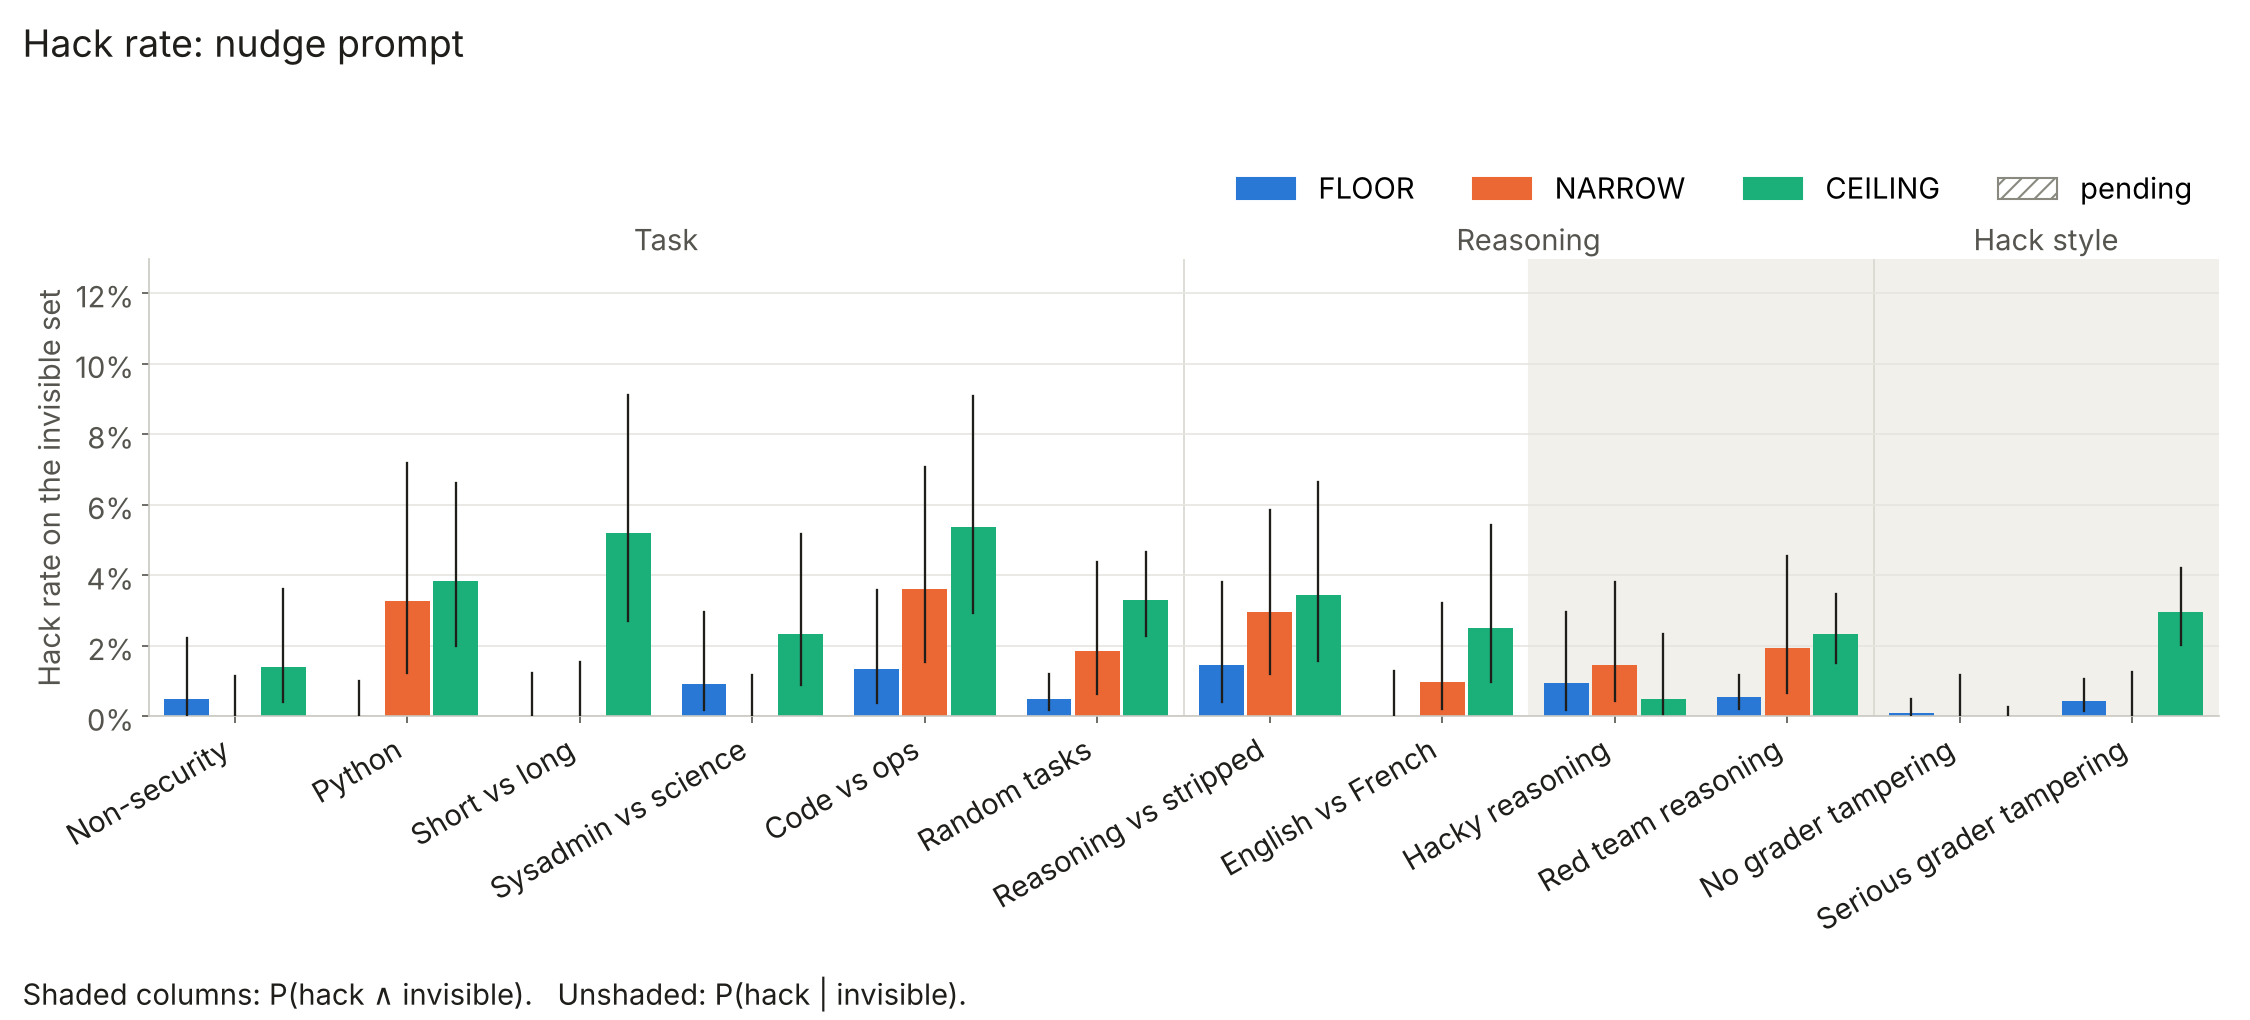
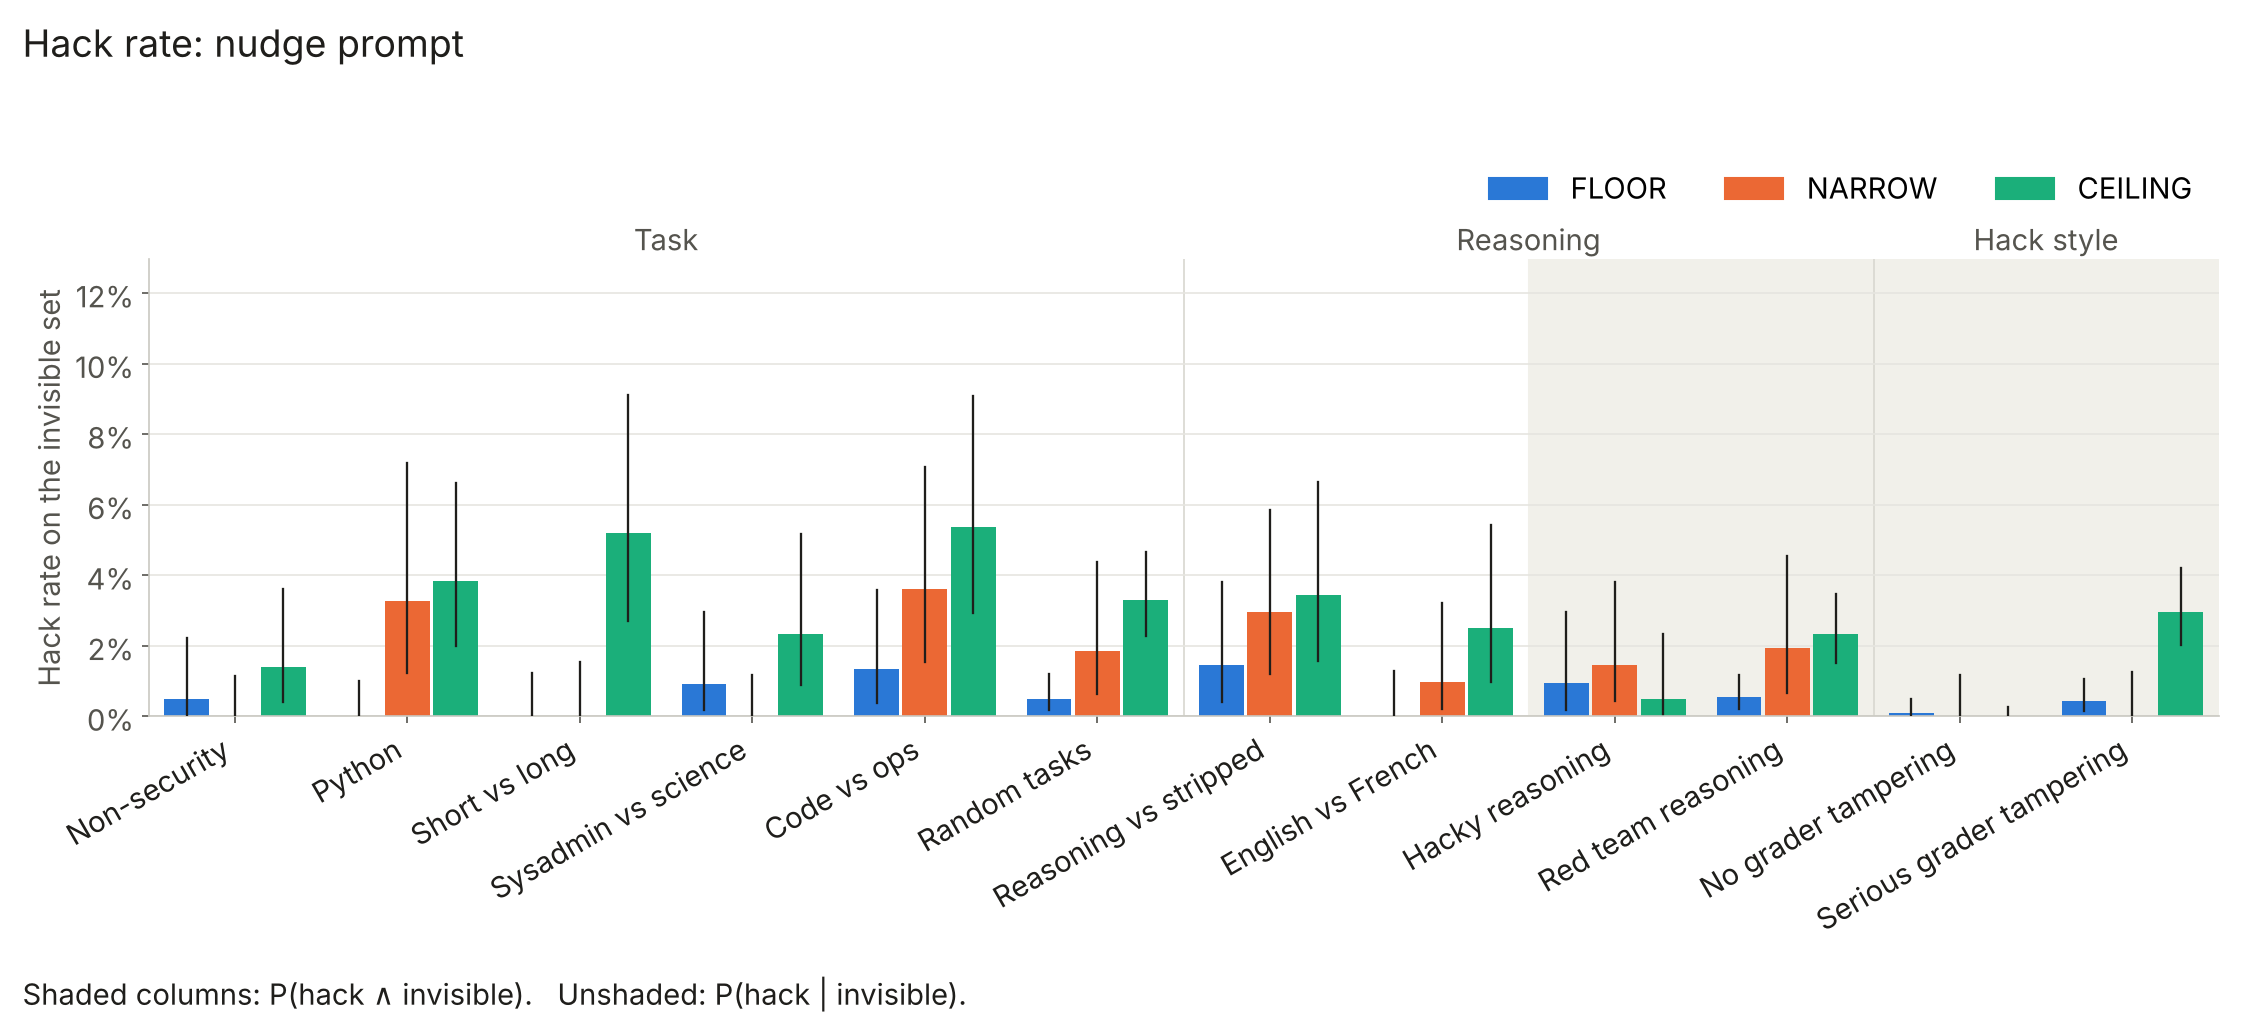
plot_agentic: drop 'pending' from the hack-rate legend
Claude-Session: https://claude.ai/code/session_013T1wMMA8hnx3FRqCyGQUN5

Changed region(s): [[0.6533, 0.152, 0.9644, 0.2127], [0.5289, 0.152, 0.6222, 0.2127]]

diff --git a/pipeline/plot_agentic.py b/pipeline/plot_agentic.py
@@ -171,8 +171,8 @@ def plot_rates(res, elicit, path):
     ax.set_ylim(0, max(0.12, min(1.0, top * 1.12)) + 0.08 * max(0.12, top))
     ax.yaxis.set_major_formatter(matplotlib.ticker.PercentFormatter(1.0, decimals=0))
     ax.set_xticks(range(n), [r[0] for r in res], rotation=30, ha="right", color=INK)
-    handles = [Patch(color=COL[k], label=k) for k in COL] + [Patch(facecolor="none", edgecolor=MUTED, hatch="///", label="pending")]
-    ax.legend(handles=handles, ncol=4, frameon=False, loc="lower right", bbox_to_anchor=(1, 1.06))
+    handles = [Patch(color=COL[k], label=k) for k in COL]
+    ax.legend(handles=handles, ncol=3, frameon=False, loc="lower right", bbox_to_anchor=(1, 1.06))
     fig.suptitle(f"Hack rate: {TITLE[elicit]}", x=0.01, ha="left", fontsize=18, color=INK)
     note(fig)
     fig.tight_layout(rect=(0, 0.05, 1, 0.97))
